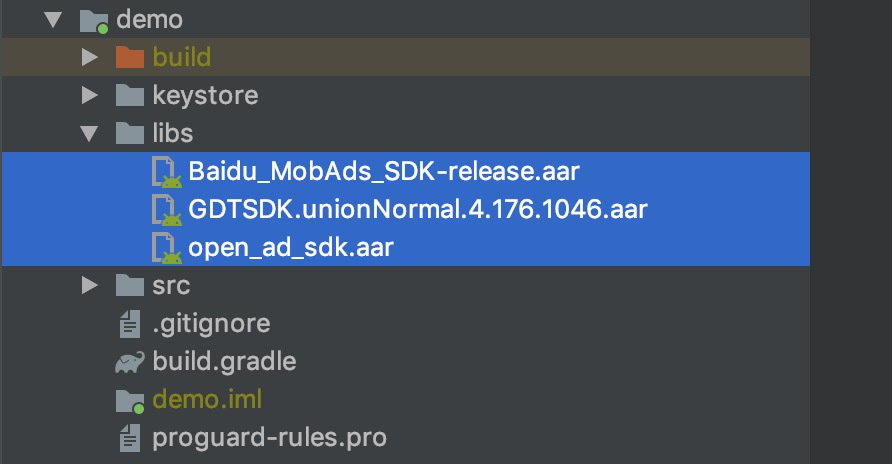
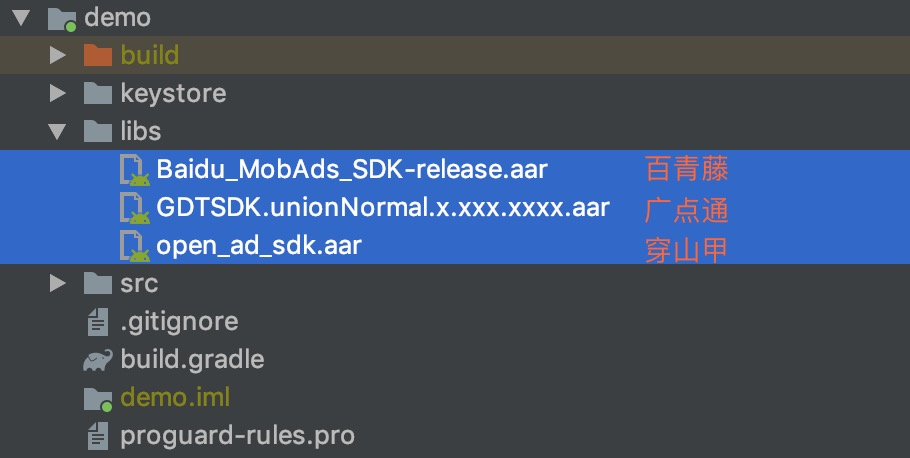
写文档

diff --git a/README.md b/README.md
@@ -49,21 +49,24 @@ dependencies {
 
 请到各个平台官网下载SDK，或者[点击这里获取aar文件](demo/libs)
 
-将对应的aar文件添加到项目的libs文件夹中
+将对应的aar文件添加到项目的libs文件夹中。
 
-<img src="img/aars-to-libs.png"  height="200" width="400">
+也是随意组合搭配，但是要和上面第 1 步骤相对应。
+
+<img src="img/aars-add-to-libs.png"  height="200" width="400">
 
 ###3. 引入aar文件
 ```
 dependencies {
 
 	//这句代码的意思是：将libs文件夹中的 所有aar和jar文件 依赖到项目中
+	//注意：这句代码和项目中默认的是不一样的，多了后面的 '*.aar'
 	implementation fileTree(dir: 'libs', include: ['*.jar', '*.aar'])
 	
 	...
 }
 ```
-> 征集：寻找将aar打包到依赖里面的方法，以优化接入的步骤。有方案者请联系我，将获取精美咖啡一杯。
+> 征集：寻找将aar打包到依赖里面的方法，以优化接入的步骤。有方案者请联系我，将获得精美咖啡一杯。
 > 感激！！
 
 ## 支持的广告类型以及使用方法
